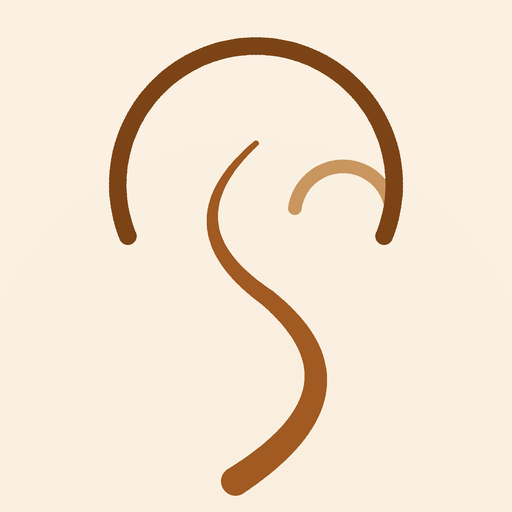
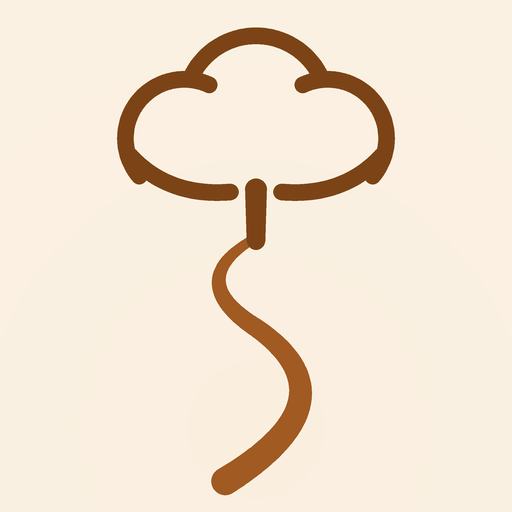
deploy 20260612-0247

diff --git a/index.html b/index.html
@@ -16,8 +16,8 @@
 @font-face{font-family:"Source Serif 4";src:url("./fonts/source-serif-italic-var.woff2") format("woff2");font-style:italic;font-weight:200 900;font-display:swap}
 @font-face{font-family:"Archivo";src:url("./fonts/archivo-var.woff2") format("woff2");font-weight:100 900;font-display:swap}
 </style>
-  <script type="module" crossorigin src="./assets/index-BWyQOI_H.js"></script>
-  <link rel="stylesheet" crossorigin href="./assets/style-Cv3BAvdb.css">
+  <script type="module" crossorigin src="./assets/index-DpKs_Tbe.js"></script>
+  <link rel="stylesheet" crossorigin href="./assets/style-DLkx3H6d.css">
 </head>
 <body>
 <div id="root"></div>

diff --git a/sw.js b/sw.js
@@ -2,8 +2,8 @@
    Hashed assets + fonts: cache-first (immutable). index.html, manifest, trip-data.enc:
    network-first with a short timeout, falling back to cache, so a weak signal never
    blocks boot. Cache name is stamped per deploy; old caches die on activate.
-   20260612023452 is substituted by scripts/deploy.sh. */
-const CACHE = "excurse-20260612023452";
+   20260612024713 is substituted by scripts/deploy.sh. */
+const CACHE = "excurse-20260612024713";
 const NET_TIMEOUT = 3500;
 
 self.addEventListener("install", () => self.skipWaiting());

diff --git a/assets/style-DLkx3H6d.css b/assets/style-DLkx3H6d.css
@@ -1,0 +1,2 @@
+*{-webkit-tap-highlight-color:transparent}:root{--paper:#faf7f2;--paper-deep:#f1ece2;--ink:#1c1915;--ink-soft:#575046;--ink-faint:#8b8276;--line:#dcd5c9;--trip-accent:#2f6b8a;--on-accent:#fff;--call-ahead:#9a6a1b;--breaking:#ae352c;--confirmed:#2f6b4d;--font-ui:"Inter",system-ui,-apple-system,sans-serif;--font-voice:"Source Serif 4",Georgia,serif;--font-display:"Archivo",var(--font-ui);--fs-caption:.75rem;--fs-meta:.8125rem;--fs-body:.9375rem;--fs-emph:1.0625rem;--fs-title:1.25rem;--fs-day:1.5rem;--fs-display:2rem;--fs-clock:2.75rem;--lh-tight:1.2;--lh-body:1.45;--s1:4px;--s2:8px;--s3:12px;--s4:16px;--s5:24px;--s6:40px;--s7:64px;--tap:48px;--r-card:12px;--r-sheet:20px;--r-chip:999px;--shadow-sheet:0 -8px 32px #1c191529;--t-micro:.14s;--t-state:.24s;--t-trans:.42s;--t-set:.7s;--ease-out:cubic-bezier(.2,.8,.2,1);--ease-cam:cubic-bezier(.45,0,.15,1);--z-thread:10;--z-pocket:50;--z-overlay:60;--z-veil:100;--bg:var(--paper);--fg:var(--ink)}[data-mode=dream]{--bg:#161826;--fg:#eceaf2;--ember:#e27840}[data-mode=shape]{--bg:var(--paper);--fg:var(--ink)}[data-mode=field]{--bg:#fff;--fg:#111009}[data-mode=field][data-theme=dark]{--bg:#121110;--fg:#f4f1ea;--call-ahead:#e6a84f}[data-mode=afterglow]{--bg:#f7efe3;--fg:#231a12;--ember:#b5722b}html[data-mode=field]{font-size:112.5%}.num{font-variant-numeric:tabular-nums}.voice{font-family:var(--font-voice);font-style:italic}.display{font-family:var(--font-display);font-weight:600;font-stretch:75%}@media (prefers-reduced-motion:reduce){:root{--t-micro:0s;--t-state:80ms;--t-trans:80ms;--t-set:80ms}}html[data-palette=la-summer]{--bg:#fbf1e3;--fg:#2a2118;--ink-faint:#a08c72;--ink-soft:#6b5b45;--line:#efe3cc;--paper-deep:#f3e6d0;--trip-accent:#a05a22}html[data-palette=la-summer][data-theme=dark]{--bg:#201a12;--fg:#f4ead9;--ink-faint:#a8917a;--ink-soft:#d6c3a8;--line:#3a2f22;--paper-deep:#2a2318;--trip-accent:#c98d52}html[data-palette=pacific]{--bg:#f4f6f2;--fg:#1a211d;--ink-faint:#7e8b82;--ink-soft:#4e5c53;--line:#dde4dc;--paper-deep:#e9efe7;--trip-accent:#3f7464}html[data-palette=pacific][data-theme=dark]{--bg:#161b18;--fg:#e2eae4;--ink-faint:#8a9990;--ink-soft:#b4c4ba;--line:#2c3630;--paper-deep:#1e2520;--trip-accent:#7fa795}html[data-palette=golden-hour]{--bg:#fcead4;--fg:#2b1d0e;--ink-faint:#a98b62;--ink-soft:#7a5c38;--line:#f0d9b7;--paper-deep:#f6e0c2;--trip-accent:#c2571b}html[data-palette=golden-hour][data-theme=dark]{--bg:#221409;--fg:#f4e3cc;--ink-faint:#b08a5f;--ink-soft:#d6b894;--line:#44301c;--paper-deep:#2c1d10;--trip-accent:#e78a45}html[data-palette=marine-layer]{--bg:#eff2f4;--fg:#1c2226;--ink-faint:#8a969e;--ink-soft:#51606b;--line:#dce3e8;--paper-deep:#e4eaee;--trip-accent:#4a7186}html[data-palette=marine-layer][data-theme=dark]{--bg:#14181b;--fg:#e4eaee;--ink-faint:#8fa0ab;--ink-soft:#b9c7d1;--line:#2a3339;--paper-deep:#1c2226;--trip-accent:#7fa4b9}html[data-palette=matcha]{--bg:#f3f4e8;--fg:#20241a;--ink-faint:#939a7e;--ink-soft:#5c6648;--line:#e2e5ce;--paper-deep:#eaedda;--trip-accent:#5f7a3d}html[data-palette=matcha][data-theme=dark]{--bg:#181b12;--fg:#e9eddc;--ink-faint:#99a284;--ink-soft:#c2ccab;--line:#303626;--paper-deep:#21251a;--trip-accent:#97b264}html[data-palette=ktown-neon]{--bg:#fbeff4;--fg:#241318;--ink-faint:#a4798b;--ink-soft:#6e4356;--line:#f2dce6;--paper-deep:#f6e3ec;--trip-accent:#c2347e}html[data-palette=ktown-neon][data-theme=dark]{--bg:#150a10;--fg:#f6e4ee;--ink-faint:#a77e92;--ink-soft:#d3a8bf;--line:#3a2230;--paper-deep:#20121a;--trip-accent:#f056a8}html[data-palette=paper][data-theme=dark]{--bg:#1b1916;--fg:#efeae2;--ink-faint:#9a9184;--ink-soft:#c9c0b2;--line:#332f29;--paper-deep:#242019;--trip-accent:#c9a06a}html[data-typestyle=editorial]{--font-display:Georgia,"Iowan Old Style","Times New Roman",serif}html[data-typestyle=editorial] .display{font-weight:600;font-stretch:100%}html[data-typestyle=soft]{--font-display:var(--font-ui);--r-card:16px}html[data-typestyle=soft] .display{letter-spacing:-.01em;font-weight:700;font-stretch:100%}html[data-ts=large]{font-size:115%}html[data-mode=field][data-ts=large]{font-size:126%}*{box-sizing:border-box;min-width:0}html,body{margin:0}body{background:var(--bg);color:var(--fg);font-family:var(--font-ui);font-size:var(--fs-body);line-height:var(--lh-body);overflow-wrap:break-word}button{font:inherit;color:inherit;cursor:pointer;min-height:var(--tap);background:0 0;border:0;padding:0}a{color:inherit}:focus-visible{outline:2px solid var(--trip-accent);outline-offset:2px;border-radius:4px}.page{max-width:560px;padding:var(--s3) var(--s4) calc(96px + env(safe-area-inset-bottom));margin:0 auto}.pagehead{padding:var(--s4) 0 var(--s2);justify-content:space-between;align-items:baseline;display:flex}.pagehead .display{font-size:var(--fs-display)}.pagehead .sub{color:var(--ink-faint);font-size:var(--fs-meta)}.greet{padding:var(--s4) 0 var(--s2)}.greet h1{font-size:var(--fs-day);font-weight:600;line-height:var(--lh-tight);margin:0}.greet .sub{color:var(--ink-faint);font-size:var(--fs-meta);margin-top:var(--s1)}.tabbar{z-index:var(--z-pocket);background:var(--bg);border-top:1.5px solid var(--line);padding:var(--s2) var(--s2) max(4px, calc(env(safe-area-inset-bottom) - 20px));justify-content:space-around;align-items:stretch;display:flex;position:fixed;bottom:0;left:0;right:0}.tabbar .tab{font-size:var(--fs-caption);color:var(--ink-faint);border-radius:var(--r-card);flex-direction:column;flex:1;align-items:center;gap:2px;display:flex}.tabbar .tab svg{width:22px;height:22px}.tabbar .tab[aria-selected=true]{color:var(--trip-accent);font-weight:600}.tabbar .wallet-btn{background:var(--trip-accent);width:58px;height:58px;color:var(--on-accent);box-shadow:var(--shadow-sheet);border:3px solid var(--bg);border-radius:50%;flex:none;justify-content:center;align-items:center;margin-top:-26px;display:flex}.tabbar .wallet-btn svg{width:26px;height:26px}.hero{border:1.5px solid var(--line);border-radius:var(--r-card);padding:var(--s5);margin-top:var(--s3);background:var(--bg)}.hero .leaveby{font-size:var(--fs-caption);letter-spacing:.1em;color:var(--trip-accent);font-weight:600}.hero .clock{font-size:var(--fs-clock);margin:var(--s1) 0;line-height:1.05}.hero .in{color:var(--ink-faint);font-size:var(--fs-meta)}.hero h2{font-size:var(--fs-title);margin:var(--s3) 0 var(--s1);font-weight:600;line-height:var(--lh-tight)}.hero .fact{color:var(--ink-soft)}.hero .ring-row{align-items:center;gap:var(--s4);justify-content:space-between;display:flex}.meanwhile{margin-top:var(--s4);color:var(--ink-faint);font-size:var(--fs-meta);text-align:left;width:100%;padding:var(--s2) 0}.later{margin-top:var(--s5)}.later .lbl,.seclbl{font-size:var(--fs-caption);letter-spacing:.08em;color:var(--ink-faint);text-transform:uppercase;margin-bottom:var(--s1)}.later .row{gap:var(--s3);padding:var(--s3) 0;border-top:1px solid var(--line);text-align:left;align-items:baseline;width:100%;display:flex}.later .row .t{color:var(--ink-faint);min-width:72px;font-size:var(--fs-meta);flex:none}.daychips{gap:var(--s2);padding:var(--s2) 0 var(--s3);scrollbar-width:none;display:flex;overflow-x:auto}.daychips::-webkit-scrollbar{display:none}.daychips button{border:1.5px solid var(--line);min-width:56px;height:56px;font-weight:600;font-size:var(--fs-emph);border-radius:50%;flex:none;justify-content:center;align-items:center;display:flex}.daychips button[aria-selected=true]{background:var(--trip-accent);color:var(--on-accent);border-color:var(--trip-accent)}.daychips button .d{font-size:var(--fs-caption);font-weight:400;display:block}.dayhead{padding:var(--s2) 0}.dayhead .display{font-size:var(--fs-day)}.brief{color:var(--ink-faint);font-size:var(--fs-meta);margin-top:var(--s1)}.card{border:1.5px solid var(--line);border-radius:var(--r-card);margin:var(--s3) 0;background:var(--bg)}.card.single{border-style:dashed}.card.backupghost{opacity:.8;border-style:dashed;width:94%;margin-left:auto}.card.freeform{background:var(--paper-deep);border-style:none}.card.past{opacity:.55}.card>summary{padding:var(--s4);cursor:pointer;min-height:var(--tap);list-style:none;position:relative}.card>summary::-webkit-details-marker{display:none}.card>summary:after{content:"";right:var(--s4);border-right:1.5px solid var(--ink-faint);border-bottom:1.5px solid var(--ink-faint);width:8px;height:8px;transition:transform var(--t-micro);position:absolute;top:calc(50% - 4px);transform:rotate(45deg)}.card[open]>summary:after{transform:rotate(225deg)}.meta-row{gap:var(--s2);font-size:var(--fs-meta);color:var(--ink-faint);padding-right:var(--s5);flex-wrap:wrap;align-items:baseline;display:flex}.card h3{margin:var(--s1) 0 0;font-size:var(--fs-emph);font-weight:600;line-height:var(--lh-tight);padding-right:var(--s5)}.card.struck h3{color:var(--ink-faint);text-decoration:line-through}.card .fact{color:var(--ink-soft);font-size:var(--fs-meta);margin-top:var(--s1)}.card .body{padding:0 var(--s4) var(--s4)}.voiceline{text-align:left;width:100%;color:var(--ink-soft);font-size:var(--fs-emph);padding:var(--s2) 0;line-height:var(--lh-body);display:block}.voiceline.clamped{-webkit-line-clamp:2;-webkit-box-orient:vertical;display:-webkit-box;overflow:hidden}.lrow{gap:var(--s2);margin:var(--s2) 0;font-size:var(--fs-meta);color:var(--ink-soft);display:flex}.lrow .k{color:var(--ink-faint);flex:none;min-width:72px}.headsup{margin:var(--s2) 0;font-size:var(--fs-meta);color:var(--ink-soft)}.actchips{gap:var(--s2);margin-top:var(--s3);flex-wrap:wrap;display:flex}.chip{border:1.5px solid var(--line);border-radius:var(--r-chip);padding:var(--s2) var(--s4);font-size:var(--fs-meta);min-height:var(--tap);background:var(--bg);align-items:center;text-decoration:none;display:inline-flex}.chip.primary{background:var(--trip-accent);color:var(--on-accent);border-color:var(--trip-accent)}.chip.callahead{border-color:var(--call-ahead);color:var(--call-ahead)}.receipts{margin-top:var(--s3);font-size:var(--fs-caption);color:var(--ink-faint)}.fork-tag{font-size:var(--fs-caption);letter-spacing:.06em;color:var(--trip-accent)}.pocket-tag{font-size:var(--fs-caption);letter-spacing:.06em;color:var(--ink-faint)}.option{border:1px solid var(--line);border-radius:var(--r-card);padding:var(--s3);margin:var(--s2) 0}.option .read{font-size:var(--fs-meta);color:var(--ink-soft);font-family:var(--font-voice);font-style:italic}.option .tr{font-size:var(--fs-caption);color:var(--ink-faint);margin-top:var(--s1)}.flap{border:1px dashed var(--line);border-left:3px solid var(--line);border-radius:0 var(--r-card) var(--r-card) 0;margin:0 0 var(--s3) var(--s4);background:var(--paper-deep)}.flap>summary{padding:var(--s3) var(--s4);font-size:var(--fs-meta);color:var(--ink-faint);cursor:pointer;min-height:var(--tap);align-items:center;list-style:none;display:flex}.flap>summary::-webkit-details-marker{display:none}.flap .g-ent{padding:var(--s3) var(--s4);border-top:1px solid var(--line)}.flap .g-ent .nm{font-weight:600;font-size:var(--fs-meta)}.flap .g-ent .hrs{color:var(--trip-accent);font-size:var(--fs-caption);margin-left:var(--s2)}.flap .g-ent .why{font-size:var(--fs-meta);color:var(--ink-soft)}.dayrail{padding-left:var(--s5);position:relative}.dayrail:before{content:"";background:var(--line);width:1.5px;position:absolute;top:0;bottom:0;left:9px}.railnode{background:var(--bg);border:1.5px solid var(--ink-faint);border-radius:50%;width:13px;height:13px;margin-top:26px;position:absolute;left:3px}.railnode.decision{border-color:var(--trip-accent);border-radius:2px;transform:rotate(45deg)}.railnode.backupn{border-style:dotted}.wsheet-scrim{z-index:var(--z-overlay);opacity:0;pointer-events:none;transition:opacity var(--t-state);background:#[phone redacted];position:fixed;top:0;bottom:0;left:0;right:0}.wsheet-scrim.open{opacity:1;pointer-events:auto}.wsheet{z-index:var(--z-overlay);background:var(--paper-deep);border-radius:var(--r-sheet) var(--r-sheet) 0 0;box-shadow:var(--shadow-sheet);transition:transform var(--t-trans) var(--ease-out);flex-direction:column;max-height:90dvh;display:flex;position:fixed;bottom:0;left:0;right:0;transform:translateY(102%)}.wsheet.open{transform:none}.wsheet .whead{padding:var(--s4) var(--s5) var(--s2);justify-content:space-between;align-items:center;display:flex}.wsheet .whead .display{font-size:var(--fs-title)}.wsheet .whead button{color:var(--ink-faint);font-size:var(--fs-meta);padding:0 var(--s2)}.wstack{padding:var(--s3) var(--s4) calc(var(--s6) + env(safe-area-inset-bottom));overflow:auto}.wcard{border-radius:var(--r-card);background:var(--bg);border:1.5px solid var(--line);margin-top:calc(-1 * var(--s7));text-align:left;width:100%;transition:margin var(--t-state) var(--ease-out);padding:0;display:block;overflow:hidden;box-shadow:0 -4px 16px #1c19151a}.wcard .band{background:var(--trip-accent);height:6px}.wcard.k-stay .band{background:var(--confirmed)}.wcard.k-car .band{background:var(--call-ahead)}.wcard.k-policy .band{background:var(--ink-faint)}.wcard.k-other .band{background:var(--ink-soft)}.wcard .wface{padding:var(--s4) var(--s5) var(--s5)}.wcard .kind{font-size:var(--fs-caption);color:var(--ink-faint);letter-spacing:.08em;text-transform:uppercase}.wcard .nm{font-weight:600;font-size:var(--fs-emph);line-height:var(--lh-tight);margin-top:2px}.wcard .peek{color:var(--ink-faint);font-size:var(--fs-meta);white-space:nowrap;text-overflow:ellipsis;margin-top:2px;overflow:hidden}.wcard.active,.wcard.active~.wcard{margin-top:var(--s3)}.wbody{padding:0 var(--s5) var(--s5)}.wbody .bigcode{font-size:var(--fs-display);font-family:var(--font-display);letter-spacing:.04em;padding:var(--s2) 0 var(--s3);text-align:left;word-break:break-all;width:100%;font-weight:600;font-stretch:75%}.wbody .bigcode.copied{color:var(--confirmed)}.wbody .note{font-size:var(--fs-body);color:var(--ink-soft);padding:var(--s2) 0}.wbody .row{gap:var(--s3);padding:var(--s2) 0;border-top:1px solid var(--line);font-size:var(--fs-meta);display:flex}.wbody .row .k{color:var(--ink-faint);flex:none;width:108px}.wbody .row .v{flex:1}.seg{gap:var(--s1);background:var(--paper-deep);border-radius:var(--r-chip);margin:var(--s2) 0 var(--s4);scrollbar-width:none;padding:4px;display:flex;overflow-x:auto}.seg::-webkit-scrollbar{display:none}.seg button{white-space:nowrap;border-radius:var(--r-chip);padding:var(--s2) var(--s4);font-size:var(--fs-meta);flex:1;min-height:40px}.seg button[aria-selected=true]{background:var(--bg);font-weight:600;box-shadow:0 1px 4px #1c19151f}.seg .badge{font-size:var(--fs-caption);color:var(--ink-faint);margin-left:6px}.demand{border:1.5px solid var(--line);border-radius:var(--r-card);padding:var(--s4);margin:var(--s3) 0}.demand .nm{font-weight:600;font-size:var(--fs-emph)}.demand .why{color:var(--ink-soft);font-size:var(--fs-meta);margin:var(--s1) 0 var(--s3)}.slotrow{align-items:center;gap:var(--s3);margin:var(--s2) 0;display:flex}.slotrow .k{font-size:var(--fs-caption);letter-spacing:.06em;text-transform:uppercase;color:var(--trip-accent);flex:none;width:88px}.slotrow input{border:0;border-bottom:1.5px solid var(--line);color:var(--fg);font:inherit;font-size:var(--fs-meta);padding:var(--s2) 2px;min-height:var(--tap);background:0 0;border-radius:0;flex:1}.slotrow input:focus{border-bottom-color:var(--trip-accent);outline:none}.slotrow input::placeholder{color:var(--ink-faint);font-style:italic}.pcat{margin:var(--s4) 0}.pcat .ph{justify-content:space-between;align-items:baseline;display:flex}.pcat .ph .nm{font-weight:600}.pcat .prog{font-size:var(--fs-caption);color:var(--ink-faint);border:1px solid var(--line);border-radius:var(--r-chip);padding:2px 10px}.pcat .prog.done{color:var(--confirmed);border-color:var(--confirmed)}.checkrow{gap:var(--s3);padding:var(--s3) 0;border-top:1px solid var(--line);align-items:flex-start;display:flex}.checkrow input{width:22px;height:22px;accent-color:var(--trip-accent);flex:none;margin-top:2px}.checkrow label,.checkrow .le-textwrap{flex:1}.checkrow .why{color:var(--ink-faint);font-size:var(--fs-caption);display:block}.checkrow.done label{color:var(--ink-faint)}.checkrow.done .main{text-decoration:line-through}.le-text{-webkit-line-clamp:2;-webkit-box-orient:vertical;display:-webkit-box;overflow:hidden}.le-text.full{display:block}.le-more{color:var(--trip-accent);font-size:var(--fs-caption);padding:var(--s1) 0;min-height:0}.le-due{color:var(--call-ahead);font-size:var(--fs-caption)}.donewrap{margin-top:var(--s5)}.donewrap>summary{cursor:pointer;color:var(--ink-faint);font-size:var(--fs-meta);padding:var(--s3) 0;min-height:var(--tap);align-items:center;gap:var(--s2);list-style:none;display:flex}.donewrap>summary::-webkit-details-marker{display:none}.emptystate{border:1.5px dashed var(--line);border-radius:var(--r-card);padding:var(--s5);color:var(--ink-faint);text-align:center;margin:var(--s4) 0}.pastefield{border:1.5px solid var(--line);border-radius:var(--r-card);background:var(--bg);width:100%;color:var(--fg);font:inherit;font-size:var(--fs-meta);padding:var(--s4);min-height:88px}.set-group{margin:var(--s5) 0}.set-group .lbl{font-size:var(--fs-caption);letter-spacing:.08em;text-transform:uppercase;color:var(--ink-faint);margin-bottom:var(--s2)}.set-row{gap:var(--s2);flex-wrap:wrap;display:flex}.set-row button,.set-row a{border:1.5px solid var(--line);border-radius:var(--r-chip);padding:var(--s2) var(--s4);font-size:var(--fs-meta);align-items:center;gap:var(--s2);min-height:var(--tap);background:var(--bg);text-decoration:none;display:inline-flex}.set-row [aria-pressed=true]{border-color:var(--trip-accent);color:var(--trip-accent);font-weight:600}.swatch{border:1px solid var(--line);border-radius:50%;flex:none;width:16px;height:16px}.veil{z-index:var(--z-veil);background:var(--bg);padding:var(--s5);text-align:center;justify-content:center;align-items:center;display:flex;position:fixed;top:0;bottom:0;left:0;right:0;overflow:hidden}.veil .box{z-index:2;width:min(360px,92vw);position:relative}.veil .box:before{content:"";z-index:-1;background:radial-gradient(closest-side,var(--bg) 55%,transparent);position:absolute;top:-12%;bottom:-12%;left:-12%;right:-12%}.veil h1{font-size:var(--fs-display);margin:0 0 var(--s2)}.veil p{color:var(--ink-faint);font-size:var(--fs-meta)}.veil input{border:1.5px solid var(--line);border-radius:var(--r-card);width:100%;padding:var(--s4);font-size:var(--fs-emph);background:var(--bg);color:var(--fg);text-align:center;margin:var(--s4) 0}.veil .go{background:var(--trip-accent);width:100%;color:var(--on-accent);border-radius:var(--r-card);padding:var(--s4);font-weight:600}.veil.err .box{animation:shake var(--t-micro) 1}@keyframes shake{25%{transform:translate(-6px)}75%{transform:translate(6px)}}.lens-grid{gap:var(--s3);margin-top:var(--s4);flex-wrap:wrap;justify-content:center;display:flex}.lens-grid button{border:1.5px solid var(--line);border-radius:var(--r-chip);padding:var(--s3) var(--s5);font-size:var(--fs-emph)}.sect{margin:var(--s3) 0}.sect h4{font-size:var(--fs-caption);letter-spacing:.1em;text-transform:uppercase;color:var(--trip-accent);margin:0 0 var(--s1);border-bottom:1.5px solid var(--line);padding-bottom:3px;font-weight:600;display:inline-block}.sect p{margin:var(--s1) 0;color:var(--ink-soft);font-size:var(--fs-meta);line-height:var(--lh-body)}.card h3,.demand .nm,.pcat .ph .nm,.wcard .nm,.hero h2,.greet h1{font-family:var(--font-display);font-stretch:75%}html[data-typestyle=editorial] .card h3,html[data-typestyle=editorial] .demand .nm,html[data-typestyle=editorial] .pcat .ph .nm,html[data-typestyle=editorial] .wcard .nm,html[data-typestyle=editorial] .hero h2,html[data-typestyle=editorial] .greet h1{font-stretch:100%}html[data-typestyle=soft] .card h3,html[data-typestyle=soft] .demand .nm,html[data-typestyle=soft] .pcat .ph .nm,html[data-typestyle=soft] .wcard .nm,html[data-typestyle=soft] .hero h2,html[data-typestyle=soft] .greet h1{letter-spacing:-.01em;font-stretch:100%}.wcard{margin-top:-10px}.wstack .wcard:first-child{margin-top:0}.wcard .wface{justify-content:space-between;align-items:center;gap:var(--s3);text-align:left;width:100%;padding:var(--s4) var(--s5);min-height:var(--tap);display:flex}.wcard .wface .nm{font-size:var(--fs-emph);white-space:nowrap;text-overflow:ellipsis;margin:0;overflow:hidden}.wcard .wface .kind{flex:none}.wcard.active{margin:var(--s3) 0}.wcard.active+.wcard{margin-top:var(--s3)}.wsect{font-size:var(--fs-caption);letter-spacing:.1em;text-transform:uppercase;color:var(--trip-accent);margin:var(--s4) 0 var(--s1);border-bottom:1.5px solid var(--line);padding-bottom:3px;font-weight:600;display:inline-block}.seg button{justify-content:center;align-items:center;gap:6px;display:inline-flex}.segbadge{background:var(--line);color:var(--ink-soft);border-radius:var(--r-chip);font-size:var(--fs-caption);padding:4px 8px;line-height:1}.seg button[aria-selected=true] .segbadge{background:var(--trip-accent);color:var(--on-accent)}.le-body{flex:1;min-width:0}.le-foot{margin-top:var(--s1);justify-content:space-between;align-items:center;display:flex}.le-chev{width:40px;min-height:32px;color:var(--ink-faint);justify-content:flex-start;align-items:center;display:flex}.le-chev svg{transition:transform var(--t-micro)}.le-chev.open svg{transform:rotate(180deg)}.le-due{color:var(--call-ahead);font-size:var(--fs-caption);margin-left:auto}.hint{color:var(--ink-faint);font-size:var(--fs-meta);margin:var(--s1) 0 var(--s3)}.slotrow{align-items:flex-start}.slotrow .k .rec{color:var(--ink-faint);text-transform:none;letter-spacing:0}.chipfield{align-items:center;gap:var(--s1);min-height:var(--tap);border-bottom:1.5px solid var(--line);padding-bottom:var(--s2);flex-wrap:wrap;flex:1;display:flex}.fitchip{border:1px solid var(--line);background:var(--paper-deep);border-radius:8px;align-items:center;max-width:100%;display:inline-flex}.fitchip-main{font-size:var(--fs-meta);text-align:left;min-height:32px;padding:6px 10px}.fitchip.open{border-color:var(--breaking)}.fitchip-x{min-height:32px;color:var(--breaking);font-size:var(--fs-emph);padding:0 10px}.fitplus{color:var(--trip-accent);font-size:var(--fs-meta);min-height:32px;padding:4px 8px}.fitadd{border:0;border-bottom:1.5px solid var(--trip-accent);color:var(--fg);font:inherit;font-size:var(--fs-meta);background:0 0;border-radius:0;min-width:130px;padding:4px 2px}.fitadd:focus{outline:none}.wip{border:1px dashed var(--call-ahead);color:var(--call-ahead);border-radius:var(--r-chip);margin-left:var(--s2);letter-spacing:.04em;text-transform:none;padding:2px 8px;font-size:10px;font-weight:400}.wpeek{align-items:center;gap:var(--s3);text-align:left;border:1.5px solid var(--line);border-radius:var(--r-card);width:100%;padding:var(--s4);background:var(--bg);display:flex}.wpeek .kind{font-size:var(--fs-caption);color:var(--trip-accent);letter-spacing:.08em;text-transform:uppercase;flex:none}.wpeek .nm{white-space:nowrap;text-overflow:ellipsis;flex:1;min-width:0;font-weight:600;overflow:hidden}.wpeek .code{color:var(--ink-faint);font-size:var(--fs-meta);flex:none}.progressbar{background:var(--paper-deep);border:1px solid var(--line);border-radius:3px;height:6px;display:block;overflow:hidden}.progressbar i{background:var(--trip-accent);height:100%;display:block}.le-note{color:var(--ink-faint);font-size:var(--fs-meta);margin-top:var(--s2);line-height:var(--lh-body);display:block}.veil,.splash{padding-top:calc(var(--s5) + env(safe-area-inset-top))}.splash{z-index:var(--z-veil);background:var(--bg);text-align:center;justify-content:center;align-items:center;display:flex;position:fixed;top:0;bottom:0;left:0;right:0;overflow:hidden}.splash-box{z-index:2;padding:var(--s6) var(--s5);animation:rise var(--t-set) var(--ease-out) both;position:relative}.splash-box:before{content:"";z-index:-1;background:radial-gradient(closest-side,var(--bg) 52%,transparent);position:absolute;top:-14%;bottom:-14%;left:-14%;right:-14%}.splash-mark{font-family:var(--font-voice);color:var(--trip-accent);font-style:italic;font-size:var(--fs-title);letter-spacing:.05em;margin-bottom:var(--s4)}.splash-box h1{font-family:var(--font-voice);letter-spacing:-.01em;margin:0;font-size:max(2.4rem,min(9vw,3.2rem));font-style:italic;font-weight:620;line-height:1.08}.splash-dates{color:var(--ink-soft);margin-top:var(--s3);font-size:var(--fs-meta);letter-spacing:.16em;text-transform:uppercase}.splash-welcome{color:var(--trip-accent);font-size:var(--fs-title);margin-top:var(--s4)}@keyframes rise{0%{opacity:0;transform:translateY(14px)}to{opacity:1;transform:none}}.veil h1{font-family:var(--font-voice);letter-spacing:-.01em;font-size:2.2rem;font-style:italic;font-weight:620;font-stretch:100%}.frond{--base:0deg;--fsz:min(120vw,600px);width:var(--fsz);z-index:1;fill:none;height:auto;stroke:var(--trip-accent);opacity:.5;left:calc(var(--fsz) * -.05 - 10px);bottom:calc(var(--fsz) * -.05 - 10px);transform:rotate(var(--base));transform-origin:5% 95%;animation:frondenter 1.2s var(--ease-out) both,frondsway 6s ease-in-out 2.2s infinite alternate;position:absolute}.frond.flip{--base:180deg;bottom:auto;left:auto;right:calc(var(--fsz) * -.05 - 10px);top:calc(var(--fsz) * -.05 - 10px);transform-origin:50%}.frond .leaf{stroke-linecap:round;opacity:0;animation:leafin .42s var(--ease-out) both;animation-delay:var(--d)}.frond .leafw{transform-box:view-box;transform-origin:8px 152px;transform:rotate(var(--rot)) scale(var(--ls,1))}.frond .leafw.back .leaf{opacity:0;stroke:color-mix(in srgb,var(--trip-accent) 55%,var(--bg) 45%);animation:leafin-back .42s var(--ease-out) both;animation-delay:var(--d)}@keyframes leafin-back{to{opacity:.75}}.frond .leafw.fore .leaf{stroke-width:3px;opacity:0;stroke:color-mix(in srgb,var(--trip-accent) 62%,var(--fg) 38%);animation:leafin .42s var(--ease-out) both;animation-delay:var(--d)}@keyframes leafin{to{opacity:1}}@keyframes frondenter{0%{transform:rotate(calc(var(--base) - 8deg)) scale(.55);opacity:0}}@keyframes frondsway{0%{transform:rotate(var(--base))}to{transform:rotate(calc(var(--base) + 1.6deg))}}@media (prefers-reduced-motion:reduce){.frond{opacity:.5;animation:none}.frond .leafw,.frond .leaf{opacity:1;animation:none}.splash-box{animation:none}}.timeshift{justify-content:center;align-items:center;gap:var(--s4);margin-top:var(--s2);color:var(--ink-faint);display:flex}.timeshift button{min-width:44px;min-height:36px;font-size:var(--fs-emph);color:var(--ink-faint)}.timeshift button:disabled{opacity:.25}.timeshift .backnow{font-size:var(--fs-caption);color:var(--trip-accent);min-width:auto}.daytheme{font-size:var(--fs-emph);color:var(--ink-soft);margin-top:var(--s2)}.daymeta{gap:var(--s4);margin-top:var(--s2);font-size:var(--fs-caption);letter-spacing:.06em;text-transform:uppercase;color:var(--ink-faint);flex-wrap:wrap;display:flex}.seg button{padding:var(--s2) var(--s4);flex:none}.slotrow .k{flex-direction:column;gap:2px;width:88px;display:flex}.slotrow .k .rec{font-size:var(--fs-caption);color:var(--ink-faint);letter-spacing:0;text-transform:none}.demand>summary,.pcat>summary{cursor:pointer;justify-content:space-between;align-items:center;gap:var(--s3);min-height:var(--tap);list-style:none;display:flex}.demand>summary::-webkit-details-marker{display:none}.pcat>summary::-webkit-details-marker{display:none}.demand .dprog{font-size:var(--fs-caption);color:var(--ink-faint);border:1px solid var(--line);border-radius:var(--r-chip);flex:none;padding:3px 10px}.demand .dbody{padding-top:var(--s2)}.pcat>summary{padding:var(--s2) 0}html[data-typestyle=editorial]{--font-ui:Georgia,"Iowan Old Style",serif}html[data-typestyle=editorial] .num,.tabbar{font-family:Inter,system-ui,-apple-system,BlinkMacSystemFont,Segoe UI,Roboto,Noto Sans,Ubuntu,Cantarell,Helvetica Neue,sans-serif}html[data-typestyle=soft]{--font-ui:ui-rounded,"SF Pro Rounded","Inter",system-ui,sans-serif;--font-display:ui-rounded,"SF Pro Rounded","Inter",system-ui,sans-serif;--r-card:18px;--r-sheet:26px}html,body{height:100%;overflow:hidden}.appwrap{view-transition-name:page;transition:opacity .28s var(--ease-out);background:var(--bg);height:100dvh;padding-top:env(safe-area-inset-top);overscroll-behavior:contain;-webkit-overflow-scrolling:touch;overflow-x:hidden;overflow-y:auto}.appwrap.dim{opacity:.6}body:before{content:"";height:env(safe-area-inset-top);z-index:90;pointer-events:none;background:var(--bg);background:color-mix(in srgb,var(--bg) 82%,transparent);-webkit-backdrop-filter:blur(12px);backdrop-filter:blur(12px);position:fixed;top:0;left:0;right:0}.tabbar{view-transition-name:tabbar}::view-transition-old(root){animation:none}::view-transition-new(root){animation:none}::view-transition-old(tabbar){animation:none}::view-transition-new(tabbar){animation:none}.brand{max-width:560px;padding:calc(var(--s3) + 2px) var(--s4) 2px;color:var(--trip-accent);font-family:var(--font-voice);font-style:italic;font-size:var(--fs-emph);letter-spacing:.04em;view-transition-name:brand;justify-content:flex-end;align-items:center;gap:8px;margin:0 auto;display:flex}.brand svg{opacity:.9;flex:none}::view-transition-old(brand){animation:none}::view-transition-new(brand){animation:none}.brand-word{display:inline-block;position:relative}.byco{font-family:var(--font-ui);letter-spacing:.14em;color:var(--ink-faint);white-space:nowrap;font-size:.5em;font-style:normal;position:absolute;bottom:-.74em;right:0}.veil .byco{font-size:.34em;right:-1.1em}.splash .byco{right:-1.4em}html[data-navdir=forward]::view-transition-new(page){z-index:2;animation:.46s cubic-bezier(.32,.72,0,1) both vt-push-in}html[data-navdir=forward]::view-transition-old(page){animation:.46s cubic-bezier(.32,.72,0,1) both vt-push-under}html[data-navdir=backward]::view-transition-old(page){z-index:2;animation:.46s cubic-bezier(.32,.72,0,1) both vt-pop-out}html[data-navdir=backward]::view-transition-new(page){animation:.46s cubic-bezier(.32,.72,0,1) both vt-pop-reveal}@keyframes vt-push-in{0%{transform:translate(100%)}}@keyframes vt-push-under{to{transform:translate(-30%)}}@keyframes vt-pop-out{to{transform:translate(100%)}}@keyframes vt-pop-reveal{0%{transform:translate(-30%)}}html[data-navdir] .heroin,html[data-morph] .heroin,html[data-navdir] .segin,html[data-morph] .segin,html[data-navdir] .fitchip,html[data-morph] .fitchip{animation:none}html[data-navdir] details::details-content{transition:none}html[data-morph] details::details-content{transition:none}html[data-morph]::view-transition-old(page){animation:.26s cubic-bezier(.4,0,.2,1) both vt-vacate}html[data-morph]::view-transition-new(page){animation:.32s cubic-bezier(.4,0,.2,1) .2s both vt-arrive}@keyframes vt-vacate{to{opacity:0}}@keyframes vt-arrive{0%{opacity:0}}::view-transition-group(morph){z-index:40;animation-duration:.62s;animation-timing-function:cubic-bezier(.45,0,.15,1)}::view-transition-image-pair(morph){animation-duration:.62s}::view-transition-group(morphday){z-index:40;animation-duration:.95s;animation-timing-function:cubic-bezier(.3,0,.08,1)}::view-transition-image-pair(morphday){animation-duration:.95s}::view-transition-old(morphday){width:auto;height:100%;animation:.26s cubic-bezier(.4,0,.2,1) both vt-vacate}::view-transition-new(morphday){width:100%;height:auto;animation:.38s cubic-bezier(.4,0,.2,1) .16s both vt-arrive}::view-transition-old(morph){width:100%;height:auto;animation:.24s cubic-bezier(.4,0,.2,1) both vt-vacate}::view-transition-new(morph){width:100%;height:auto;animation:.34s cubic-bezier(.4,0,.2,1) .14s both vt-arrive}details::details-content{opacity:0;transition:opacity .26s var(--ease-out)}details[open]::details-content{opacity:1}@supports (animation-timing-function:linear(0,1)){.wsheet{transition:transform .9s linear(0,.0238 3.2%,.0858 6.5%,.1733 9.7%,.[phone redacted]%,.[phone redacted]%,.[phone redacted]%,.[phone redacted]%,.[phone redacted]%,.7767 29%,.[phone redacted]%,.[phone redacted]%,.[phone redacted]%,.[phone redacted]%,[phone redacted]%,[phone redacted]%,[phone redacted]%,[phone redacted]%,[phone redacted]%,[phone redacted]%,[phone redacted]%,[phone redacted]%,[phone redacted]%,[phone redacted]%,[phone redacted]%,[phone redacted]%,[phone redacted]%,[phone redacted]%,[phone redacted]%,[phone redacted]%,[phone redacted]%,1)}}.wsheet{will-change:transform}.wsheet.open .wcard{animation:cardfan .26s var(--ease-out) both;animation-delay:calc(var(--i,0)*40ms)}@keyframes cardfan{0%{opacity:0;transform:translateY(16px)}}.wcard .wgrow{visibility:hidden;transition:grid-template-rows .38s var(--ease-out),visibility 0s .38s;grid-template-rows:0fr;display:grid}.wcard .wgrow.open{visibility:visible;transition:grid-template-rows .38s var(--ease-out),visibility 0s;grid-template-rows:1fr}.wcard .wgrow-in{min-height:0;overflow:hidden}.le-notewrap{transition:grid-template-rows .3s var(--ease-out);grid-template-rows:0fr;display:grid}.le-notewrap.open{grid-template-rows:1fr}.le-notewrap>.le-note{min-height:0;overflow:hidden}.segin{animation:segin .24s var(--ease-out) both}@keyframes segin{0%{opacity:0;transform:translateY(8px)}}.dayroll .dayhead .brief{animation:rollfade .38s var(--ease-out) .75s backwards}.dayroll .dayhead .daytheme{animation:rollfade .42s var(--ease-out) .86s backwards}.dayroll .dayhead .daymeta{animation:rollfade .42s var(--ease-out) .97s backwards}.dayroll .dayrail>div{animation:rollin .44s var(--ease-cam) backwards;animation-delay:calc(1.06s + min(var(--ri,0), 7) * 65ms)}@keyframes rollin{0%{opacity:0;transform:translateY(-16px)}}@keyframes rollfade{0%{opacity:0;transform:translateY(6px)}}.dayhead .display{width:-webkit-fit-content;width:-moz-fit-content;width:fit-content;font-size:2.1rem}.heroin{animation:heroin .24s var(--ease-out) both}@keyframes heroin{0%{opacity:0;transform:translateY(10px)}}.chip,.daychips button,.seg button,.set-row button,.tabbar .tab,.fitchip-main,.fitplus,.wallet-btn{transition:transform .14s var(--ease-out),background-color .14s var(--ease-out), border-color .14s var(--ease-out),color .14s var(--ease-out)}.chip:active,.daychips button:active,.seg button:active,.set-row button:active,.fitchip-main:active{transform:scale(.94)}.wallet-btn:active{transform:scale(.9)}.checkrow input{transition:transform .14s var(--ease-out)}.checkrow input:active{transform:scale(.85)}.checkrow label .main,.checkrow .le-textwrap .main{transition:color .14s var(--ease-out)}.fitchip{animation:chipin .14s var(--ease-out) both}@keyframes chipin{0%{opacity:0;transform:scale(.8)}}.progressbar i{transition:width .42s var(--ease-out)}.hero svg circle{transition:stroke-dashoffset 1s linear}.splash{transition:opacity .42s var(--ease-out)}.splash.leaving{opacity:0;pointer-events:none}.splash.leaving .splash-box{transition:transform .42s var(--ease-out);transform:translateY(-10px)}.pkoverall{border:1px solid var(--line);border-radius:var(--r-card);background:var(--bg);padding:var(--s3) var(--s4);margin-bottom:var(--s5)}.pkoverall .row{justify-content:space-between;margin-bottom:6px;display:flex}.spark{color:var(--trip-accent);vertical-align:-1px;flex:none;margin-right:6px}.checkrow .rowdel{min-width:36px;min-height:32px;color:var(--ink-faint);font-size:var(--fs-emph)}@media (prefers-reduced-motion:reduce){::view-transition-old(*){animation:none!important}::view-transition-new(*){animation:none!important}details::details-content{transition:none}.wsheet{transition:none}.wsheet.open .wcard,.heroin,.fitchip{animation:none}.appwrap,.progressbar i,.hero svg circle{transition:none}}
+/*$vite$:1*/